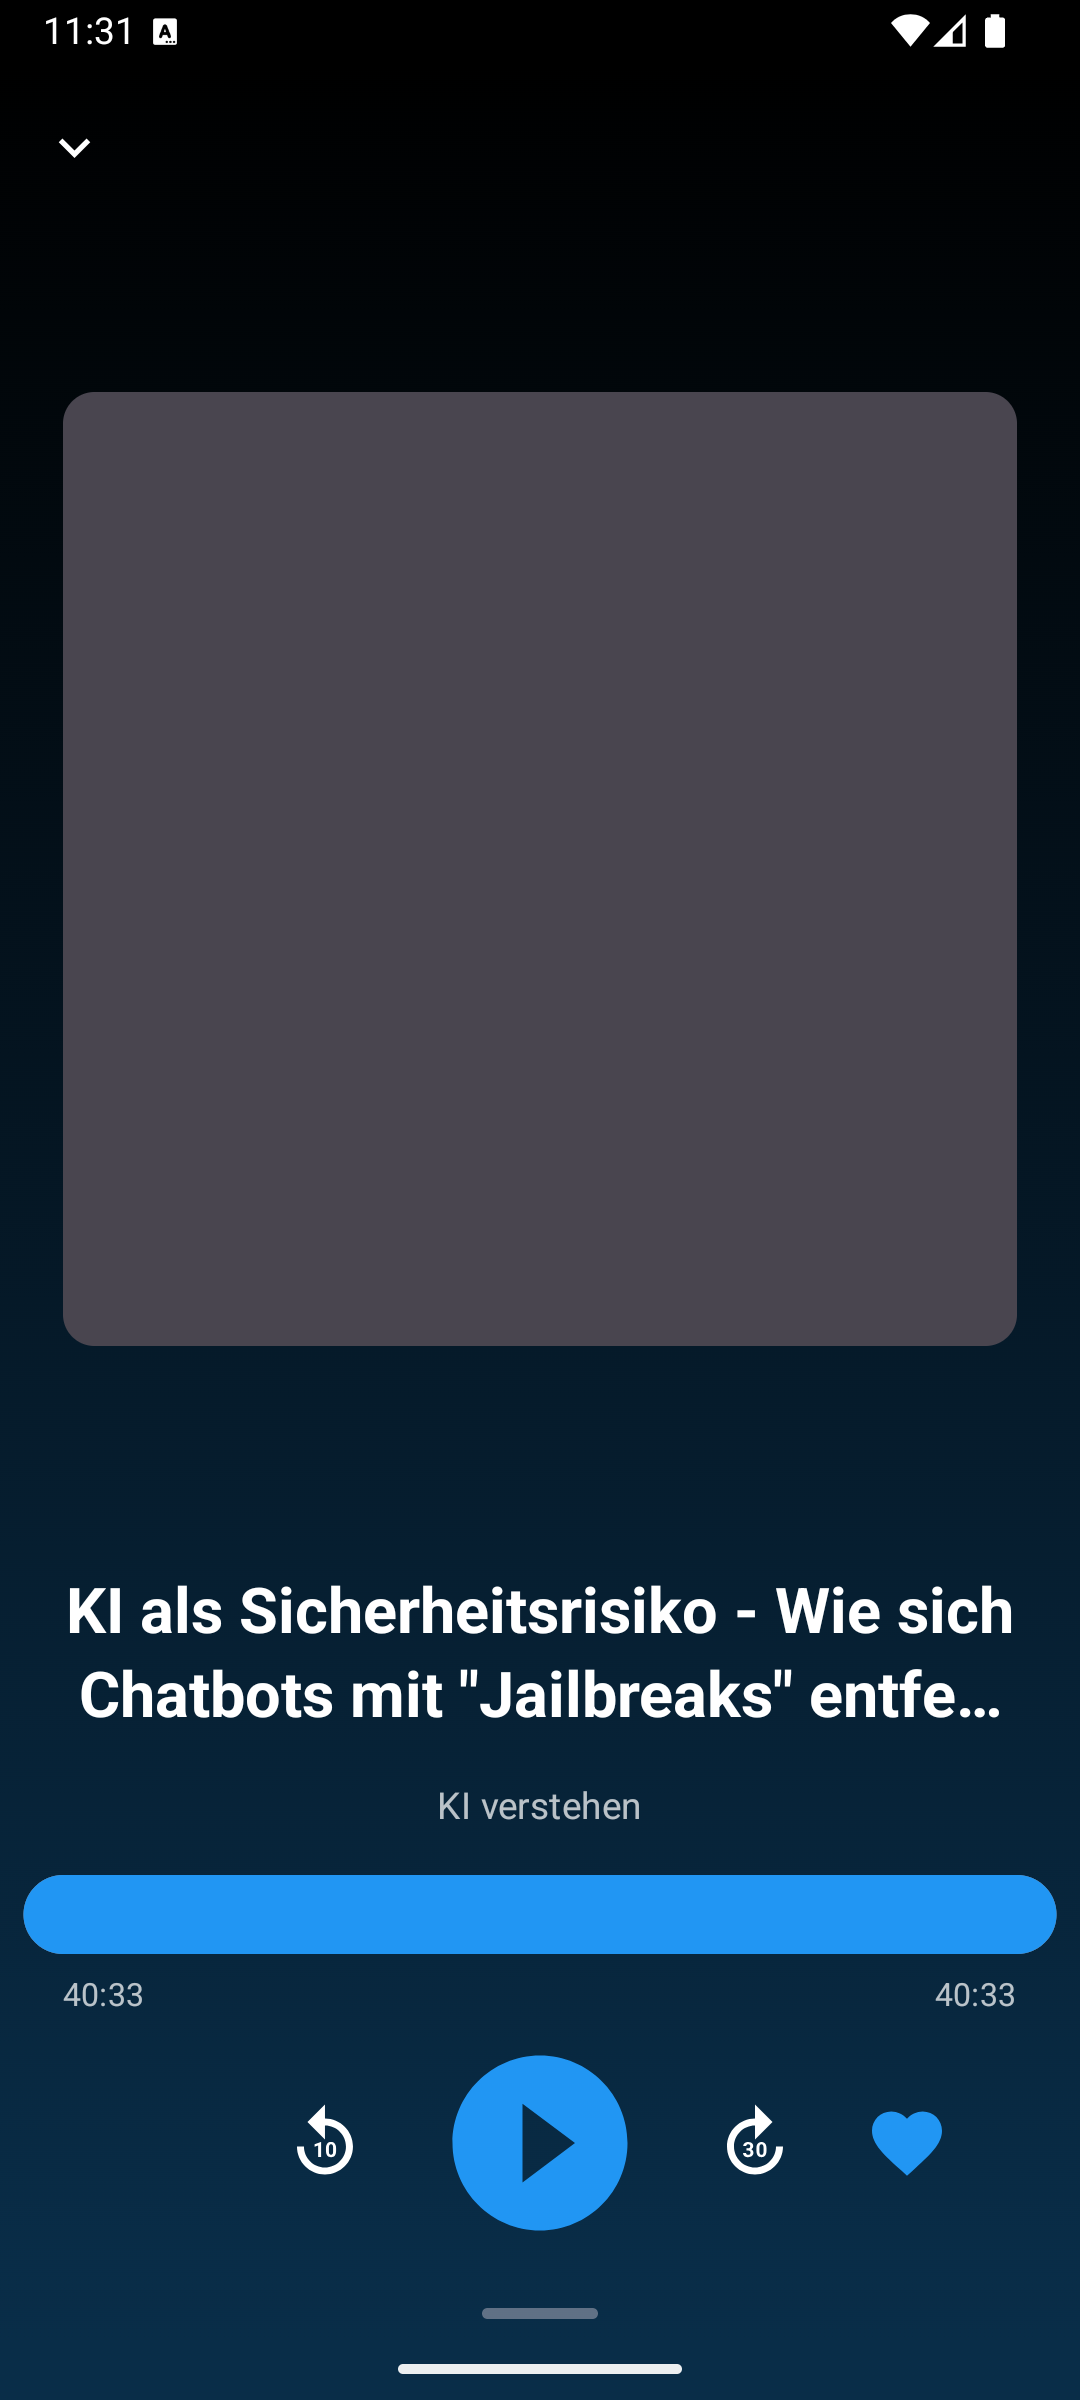
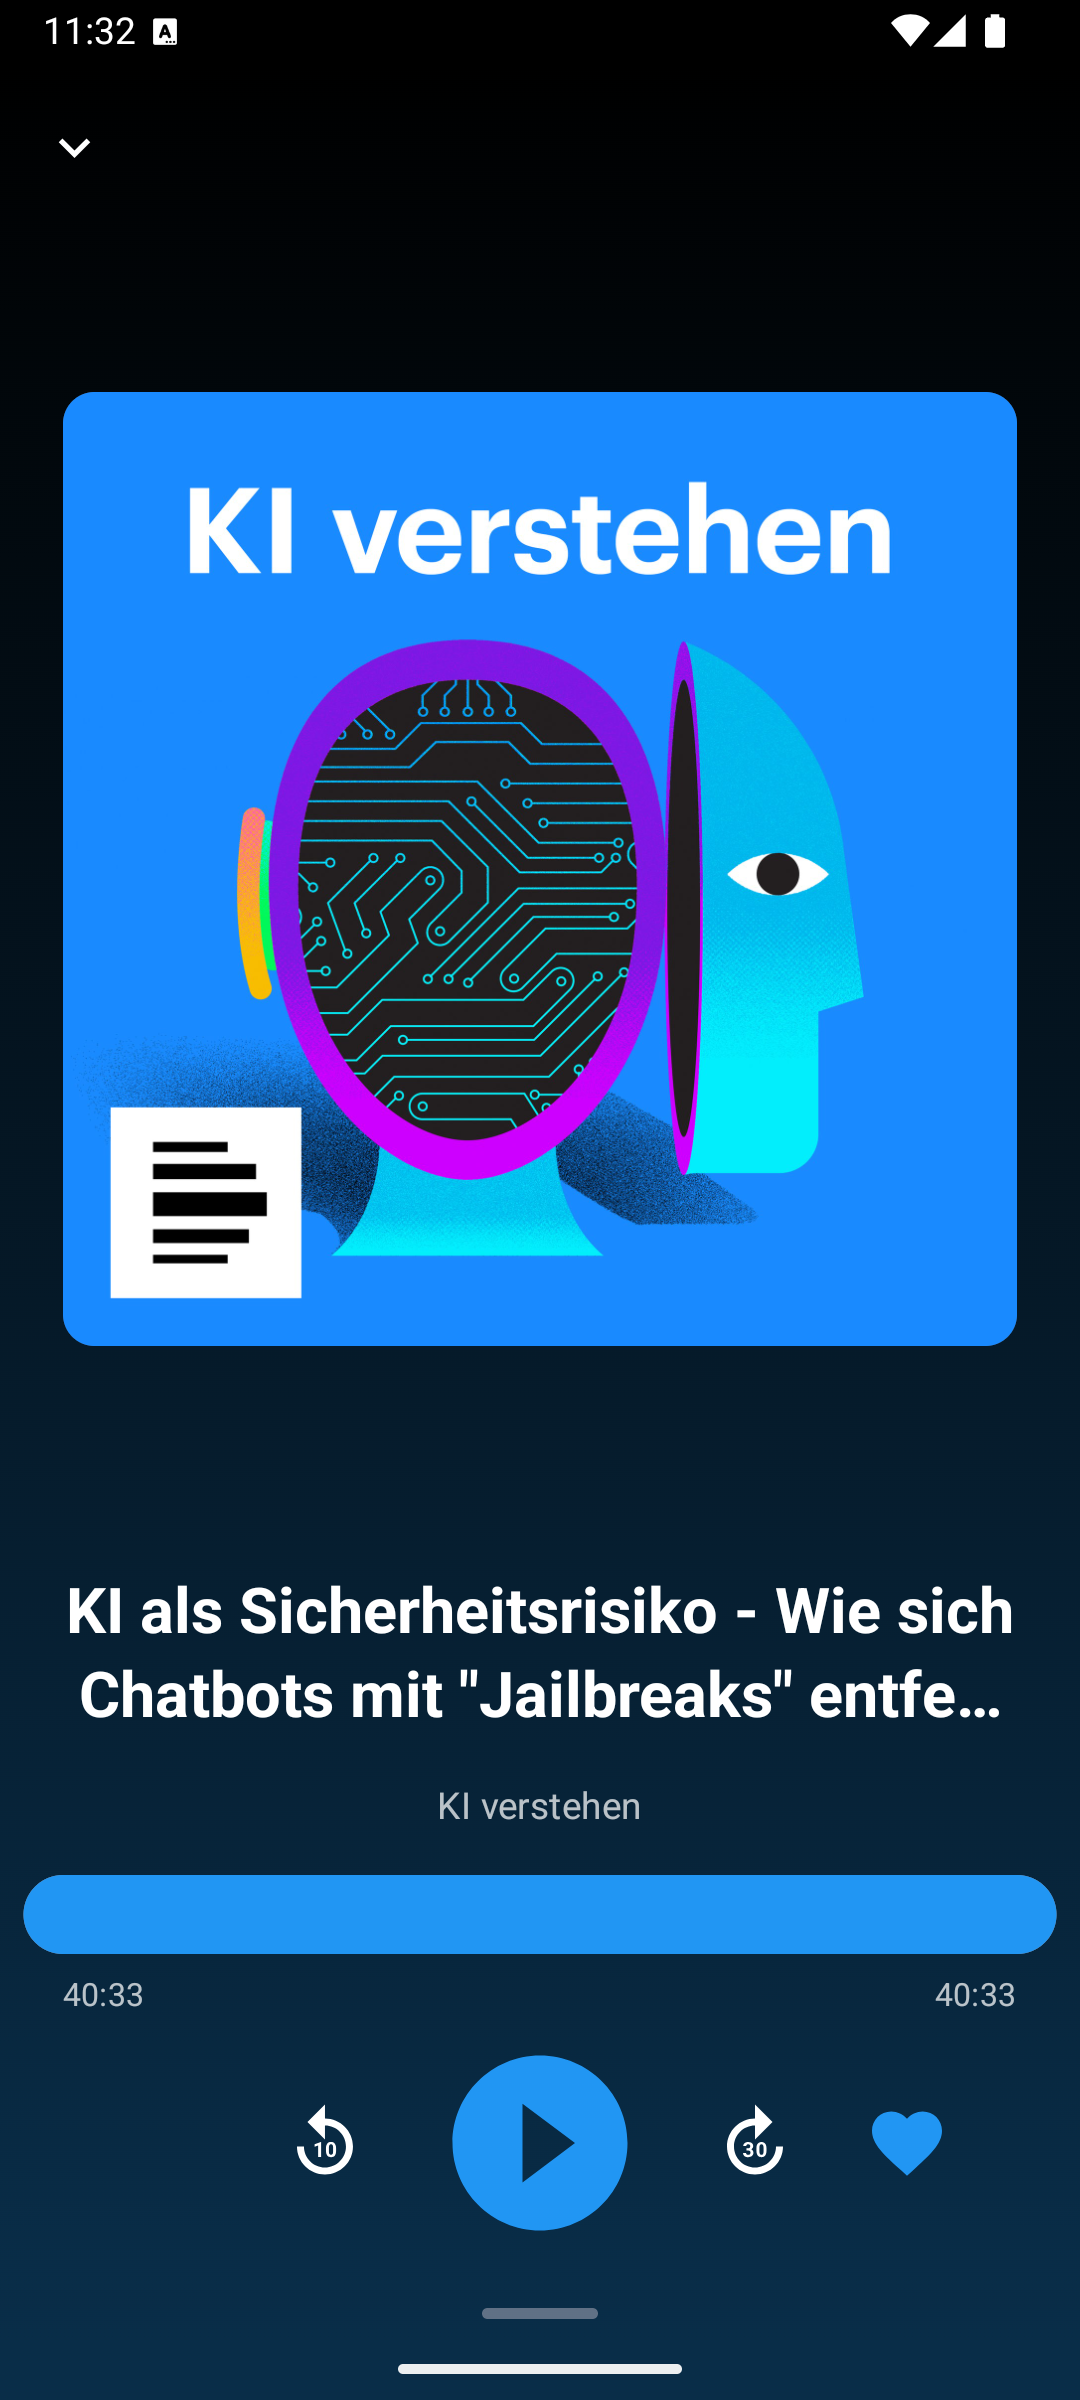
Document home bottom bar screenshot

diff --git a/README.md b/README.md
@@ -31,21 +31,25 @@ RSS-Synchronisierung, Wiedergabe, Downloads und stark anpassbarer Bedienung.
 
 Aktuelle Emulator-Screenshots:
 
-| Home | Settings |
+| Home | Home with Bottom Bar |
 |---|---|
-| ![Home](picture/home.png) | ![Settings](picture/settings.png) |
+| ![Home](picture/home.png) | ![Home with Bottom Bar](picture/home2.png) |
 
-| Downloads | Search |
+| Settings | Downloads |
 |---|---|
-| ![Downloads](picture/downloads.png) | ![Search](picture/search.png) |
+| ![Settings](picture/settings.png) | ![Downloads](picture/downloads.png) |
 
-| History | Favorites |
+| Search | History |
 |---|---|
-| ![History](picture/history.png) | ![Favorites](picture/favorites.png) |
+| ![Search](picture/search.png) | ![History](picture/history.png) |
 
-| Podcast Detail | Player |
+| Favorites | Podcast Detail |
 |---|---|
-| ![Podcast Detail](picture/podcast_detail.png) | ![Player](picture/player.png) |
+| ![Favorites](picture/favorites.png) | ![Podcast Detail](picture/podcast_detail.png) |
+
+| Player | |
+|---|---|
+| ![Player](picture/player.png) | |
 
 ## Tech-Stack
 

diff --git a/CHANGELOG.md b/CHANGELOG.md
@@ -7,7 +7,8 @@ The format is based on Keep a Changelog and this project follows a beta release 
 ## [Unreleased]
 
 ### Added
-- Current README screenshots in the versioned `picture/` folder.
+- Current README screenshots in the versioned `picture/` folder, including the
+  Home screen with visible bottom navigation.
 - Date-based grouping for playback history and favorites.
 - Favorites sort switch between manual order and added-date order.
 - Episode publish dates in history and favorites rows.
